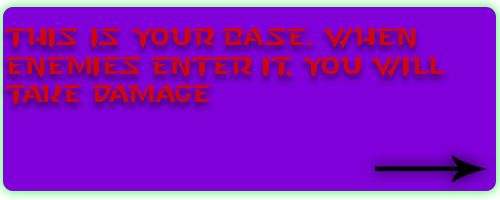
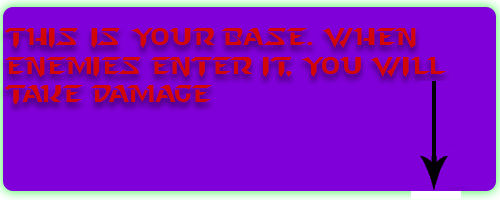
Balance changes and UI text changes

Changed region(s): [[0.75, 0.42, 0.99, 0.99]]

diff --git a/ui.js b/ui.js
@@ -313,7 +313,7 @@ UI.prototype.displayTutorial = function() {
         ["./img/tutorial/information.png", 285, 0],
         ["./img/tutorial/health.png", 285, 0],
         ["./img/tutorial/resources.png", 285, 0],
-        ["./img/tutorial/base.png", 150, 500],
+        ["./img/tutorial/base.png", 0, 410],
         ["./img/tutorial/lane.png", 125, 300],
         ["./img/tutorial/pickup.png", 125, 300],
         ["./img/tutorial/defenders.png", 285, 250],
@@ -336,6 +336,7 @@ UI.prototype.displayTutorial = function() {
     that.t;
 
     function drawTutorialImages() {
+
         that.t = setTimeout(function() {
             ctxThree.clearRect(0, 0, canvasThree.width, canvasThree.height);
             var tempSrc = tutorialImages[i][0];
@@ -356,7 +357,7 @@ UI.prototype.displayTutorial = function() {
                 that.gameEngine.pause(true);
             }
 
-        }, 5000);
+        }, 4000);
     }
     drawTutorialImages();
 }
@@ -443,17 +444,18 @@ function generateGameInfo() {
     }, false);
     this.gameInfoBox.value = "Star Defender\n" +
         "*************************\n" +
-        "Keybinds:\n" +
+        "Keybinds\n" +
         "----\n" +
-        "(A) Marine\n    (Low DMG)\n    (Fast RoF)\n" +
-        "(S) Ghost\n    (Medium DMG)\n    (Medium RoF)\n" +
-        "(D) Battlecruiser\n    (High DMG)\n    (Low RoF)\n" +
-        "(W) Anti Air Structure\n    (High DMG)\n    (Medium RoF)\n" +
-        "(Q) Firebat\n      (High DMG)\n      (AOE Low RoF)\n" +
-        "(F) Spawn SCV\n    (Generates Resources)\n" +
-        "----\n" +
-        "(M) Music (On/Off)\n" +
-        "(T) Skip Tutorial\n" +
+        "(A) Marine:\n    Med Damage\n    Weak vs Armor\n    Hits Air and Ground\n" +
+        "(Q) Firebat:\n    High DPS\n    AoE Damage\n    Limited Range\n" +
+        "(S) Ghost:\n    Medium Damage\n    Armor Piercing\n    Ground Specialist\n" +
+        "(D) Battlecruiser:\n    High Damage\n    Long Range\n    Low Rate of Fire\n" +
+        "(W) Anti Air:\n    High Damage\n    Armor Piercing\n    Hits Air Only\n" +
+        "(F) SCV:\n    Collects 25 Resources\n" +
+        "-----\n" +
         "(R) Restart Current Level\n" +
-        "(P) Pause/Resume Game\n";
+        "(P) Pause/Resume Game\n" +
+        "(M) Music (On/Off)\n" +
+        "(T) Skip Tutorial\n";
+
 }

diff --git a/boss.js b/boss.js
@@ -9,7 +9,7 @@ var overlord = {
     health: 750,
     armor: 10,
     isAir: false,
-    damage: 70,
+    damage: 50,
     deathAnimation: {
         name: "overlord",
         frameWidth: 60, frameHeight: 75, sheetWidth: 1, frameDuration: 1, frames: 1,
@@ -24,10 +24,10 @@ var devourer = {
     loop: true,
     scale: .6,
     speed: 45,
-    health: 3000,
+    health: 2500,
     armor: 8,
     isAir: false,
-    damage: 50,
+    damage: 65,
     deathAnimation: {
         name: "devourer",
         frameWidth: 70, frameHeight: 83, sheetWidth: 6, frameDuration: 1, frames: 6,
@@ -45,7 +45,7 @@ var ultralisk = {
     health: 4000,
     armor: 10,
     isAir: false,
-    damage: 50,
+    damage: 80,
     deathAnimation: {
         name: "ultralisk",
         frameWidth: 98, frameHeight: 105, sheetWidth: 10, frameDuration: 0.1, frames: 10,
@@ -67,7 +67,7 @@ var sarahkerrigan = {
     health: 3000,
     armor: 10,
     isAir: false,
-    damage: 1000,
+    damage: 100,
     deathAnimation: {
         name: "sarahkerrigan",
         frameWidth: 78,
@@ -93,7 +93,7 @@ var infestedkerrigan = {
     health: 3000,
     armor: 15,
     isAir: false,
-    damage: 1000,
+    damage: 100,
     deathAnimation: {
         name: "infestedkerrigan",
         frameWidth: 56,
@@ -198,9 +198,9 @@ Boss.prototype.update = function() {
         this.armorTrigger = true;
         this.armor = 20;
     }
-    if (this.unit === devourer && this.currentHealth < 500 && this.speedTrigger === false) {
-        this.speed = 80;
-        this.speedTrigger === false;
+    if (this.unit === devourer && this.currentHealth < this.unit.health/2 && this.speedTrigger === false) {
+        this.speed += 20;
+        this.speedTrigger = true;
     } 
     if (this.unit === infestedkerrigan && this.currentHealth < 200 && this.healthTrigger === false) {
         this.currentHealth = 600;

diff --git a/defender.js b/defender.js
@@ -20,7 +20,7 @@ var marine = {
     targetFlying: true,
 };
 
-//DPS = 83.3
+//DPS = 91.3
 var battlecruiser = {
     name: "battlecruiser",
     frameWidth: 111,
@@ -32,14 +32,14 @@ var battlecruiser = {
     scale: .5,
     range: 250,
     cooldown: 3,
-    damage: 250,
+    damage: 275,
     armorPiercing: true,
     mapKey: 'd',
     targetGround: true,
     targetFlying: false,
 };
 
-//DPS = 68
+//DPS = 70
 var ghost = {
     name: "ghost",
     frameWidth: 40,
@@ -51,14 +51,14 @@ var ghost = {
     scale: 1.2,
     range: 100,
     cooldown: 0.5,
-    damage: 34,
+    damage: 35,
     armorPiercing: true,
     mapKey: 's',
     targetGround: true,
     targetFlying: false,
 };
 
-//DPS = 100
+//DPS = 130
 var antiair = {
     name: "antiair",
     frameWidth: 43,
@@ -69,8 +69,8 @@ var antiair = {
     loop: true,
     scale: 1,
     range: 150,
-    cooldown: 0.5,
-    damage: 50,
+    cooldown: 0.55,
+    damage: 60,
     armorPiercing: true,
     mapKey: 'w',
     targetGround: false,

diff --git a/dropship.js b/dropship.js
@@ -7,7 +7,7 @@ var dropship = {
     frames: 32,
     loop: true,
     scale: .9,
-    speed: 160
+    speed: 175
 };
 
 function Dropship(game, map, assetManager, unitStartColumn, unitStartRow, unitEndColumn, unitEndRow, theDefender) {

diff --git a/main.js b/main.js
@@ -82,6 +82,6 @@ AM.downloadAll(function() {
     map.createMap(gameEngine, AM);
 
     //Display tutorial
-    //ui.displayTutorial();
+    ui.displayTutorial();
 
 });
